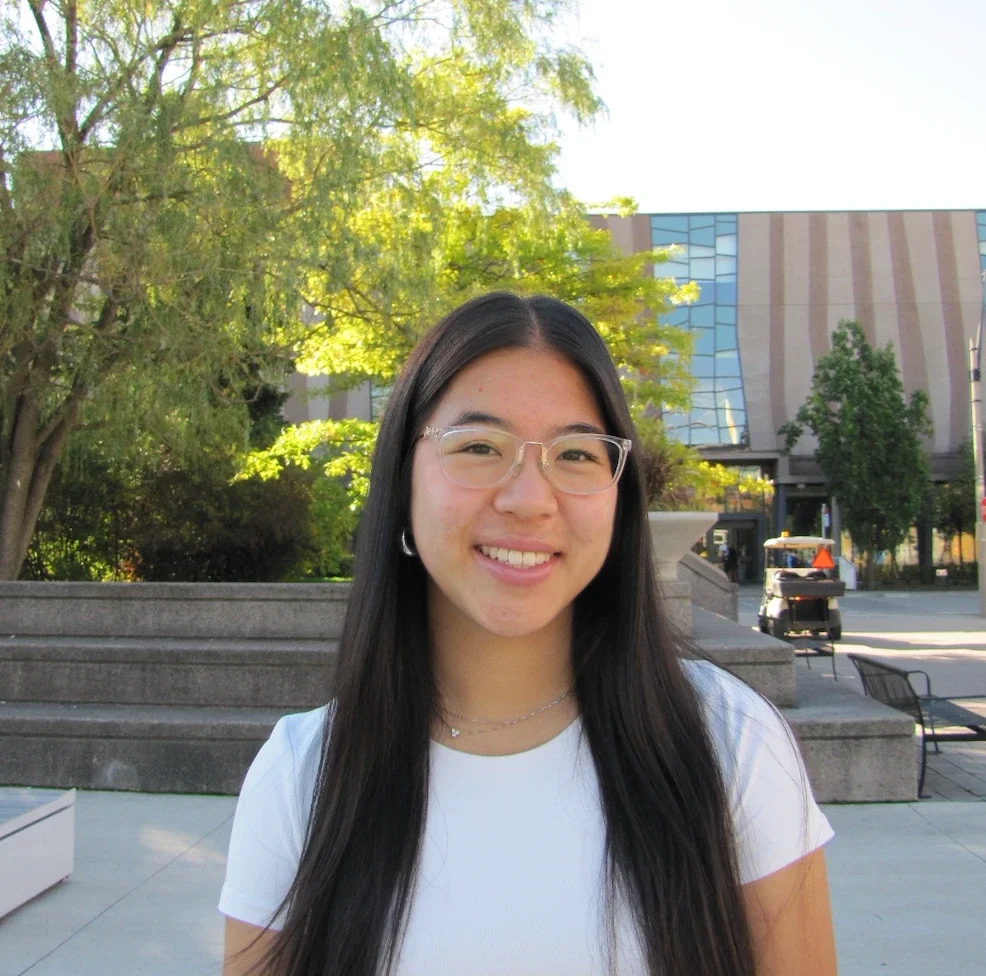
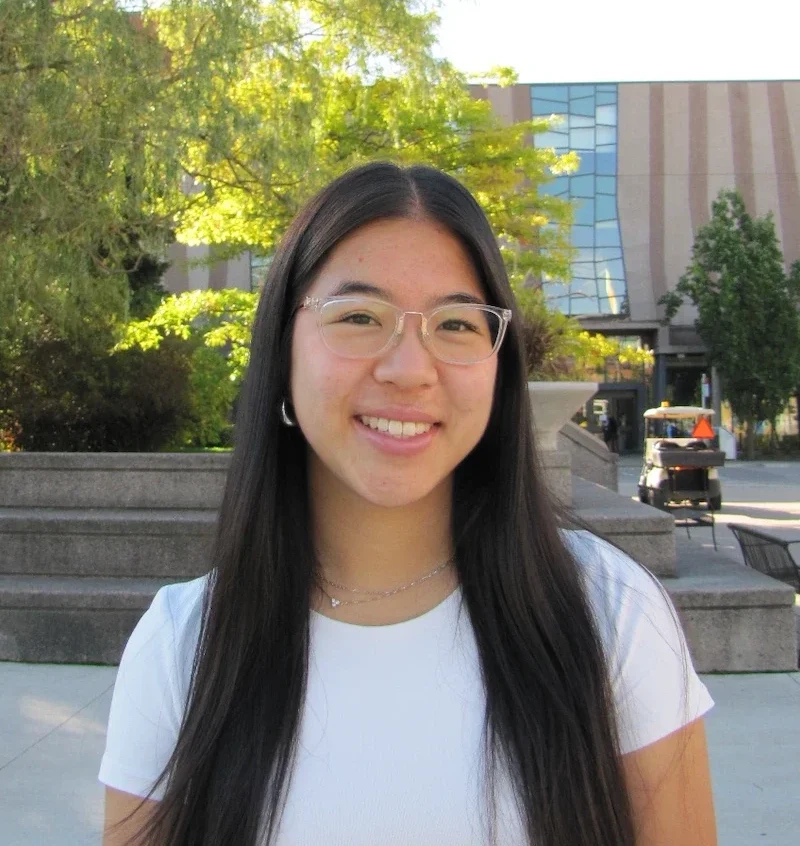
Portrait ends level with Read more; trim some sky from the photo
Claude-Session: https://claude.ai/code/session_01CcmQUZyzyJXGf3KFa9X5dn

diff --git a/index.html b/index.html
@@ -124,17 +124,17 @@
   .hero h1 { letter-spacing: -0.045em; }
   .portrait { object-fit: cover; border-radius: 6px; box-shadow: 0 10px 24px -12px rgba(0, 0, 0, 0.45); }
   /* Computers: name across the top; the photo sits beside the welcome blurb, its top level with the blurb's
-     first line, running a little below "Read more" */
+     first line and its bottom level with "Read more" */
   .hero { display: grid; grid-template-columns: 1fr 210px; gap: 32px; }
   .hero-text { display: contents; }
   .hero h1 { grid-column: 1 / -1; }
   .hero .lede { grid-column: 1; grid-row: 2; }
   .hero .hint { grid-column: 1; grid-row: 3; }
-  .portrait { grid-column: 2; grid-row: 2 / 4; width: 100%; height: 100%; margin-top: 31px; contain: size; object-position: 50% 35%; }
+  .portrait { grid-column: 2; grid-row: 2 / 4; align-self: stretch; width: 100%; height: auto; margin-top: 31px; contain: size; }
   /* Phones: one column, wide photo on top */
   @media (max-width: 720px) {
     .hero { grid-template-columns: 1fr; gap: 0; }
-    .portrait { grid-row: 1; grid-column: 1; height: auto; aspect-ratio: 4 / 3; margin-top: 0; contain: none; }
+    .portrait { grid-row: 1; grid-column: 1; height: auto; aspect-ratio: 4 / 3; margin-top: 0; contain: none; object-position: 50% 15%; }
     .hero h1 { grid-row: 2; margin-top: 20px; }
     .hero .lede { grid-row: 3; }
     .hero .hint { grid-row: 4; }
